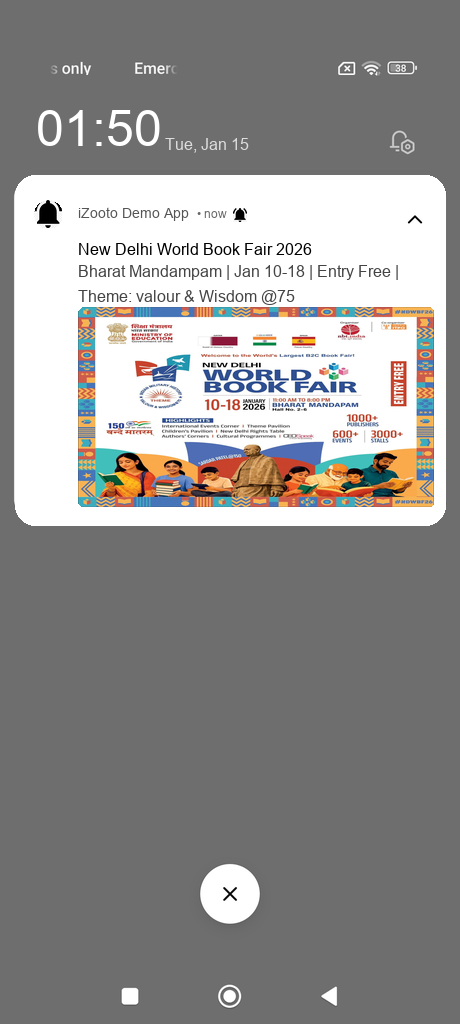
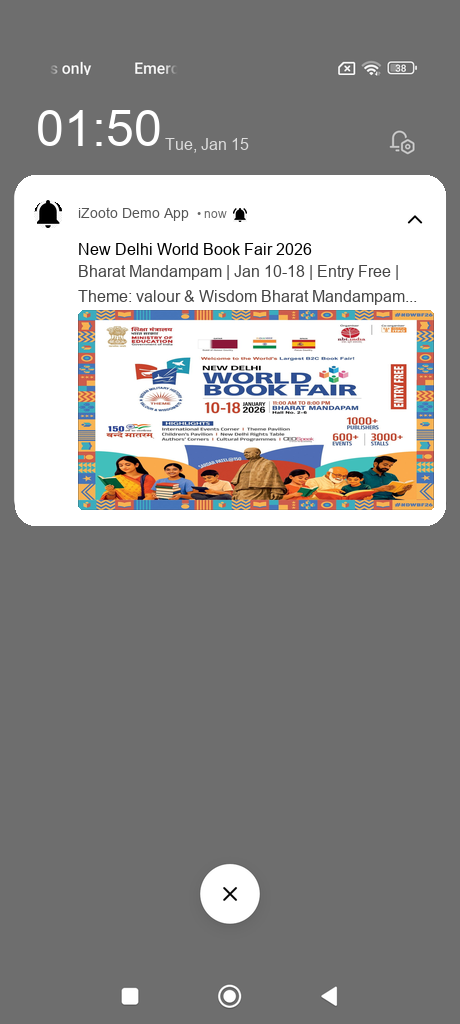
styling updates

Changed region(s): [[0.1522, 0.2812, 0.9435, 0.5]]

diff --git a/generateSS.py b/generateSS.py
@@ -172,6 +172,18 @@ class ImageGenerator:
                     max_width = cfg.get('max_width', canvas_size[0] - pos[0] * 2)
                     lines = self.wrap_text(content, font, max_width)
                     
+                    # --- Truncate to max 2 lines with ellipsis ---
+                    if eid in ['title', 'description'] and len(lines) > 2:
+                        lines = lines[:2]
+                        last_line = lines[-1]
+                        while last_line:
+                            bbox = draw.textbbox((0, 0), last_line + "...", font=font)
+                            if (bbox[2] - bbox[0]) <= max_width:
+                                lines[-1] = last_line + "..."
+                                break
+                            last_line = last_line[:-1]
+                    # ---------------------------------------------
+                    
                     line_spacing = cfg.get('line_spacing', 10)
                     line_h = 0
                     max_line_w = 0

diff --git a/generate_all.py b/generate_all.py
@@ -11,11 +11,7 @@ DATE_TIME = "Tue, Jan 15, 01:50"
 TITLE = "New Delhi World Book Fair 2026"
 BASE_DESCRIPTION = "Bharat Mandampam | Jan 10-18 | Entry Free | Theme: valour & Wisdom"
 APP_NAME = "iZooto Demo App"
-
-# Assets
-# Note: Using the assets provided in the user's last command
 ICON_FILE = "assets/icons/bell-icon.png" 
-# Fallback to default if bell-icon doesn't exist? The user seemed to use it successfully for T1-T3.
 BANNER_FILE = "assets/banners/World-Book-Fair-2026-1536x1536-1.jpg"
 
 def run_gen(tid, description_suffix=""):
@@ -63,13 +59,10 @@ def main():
         return
 
     # Run for each template
-    run_gen(1, " @75")
-    run_gen(2, " @76")
-    run_gen(3, " @77")
-    
-    # Template 4 (User's command for T4 was failing due to missing args. 
-    # We pass empty strings or the same content. Passing same content is safer.)
-    run_gen(4, "")
+    run_gen(1)
+    run_gen(2)
+    run_gen(3)
+    run_gen(4)
     
     print("\n✨ All tasks completed.")
 
